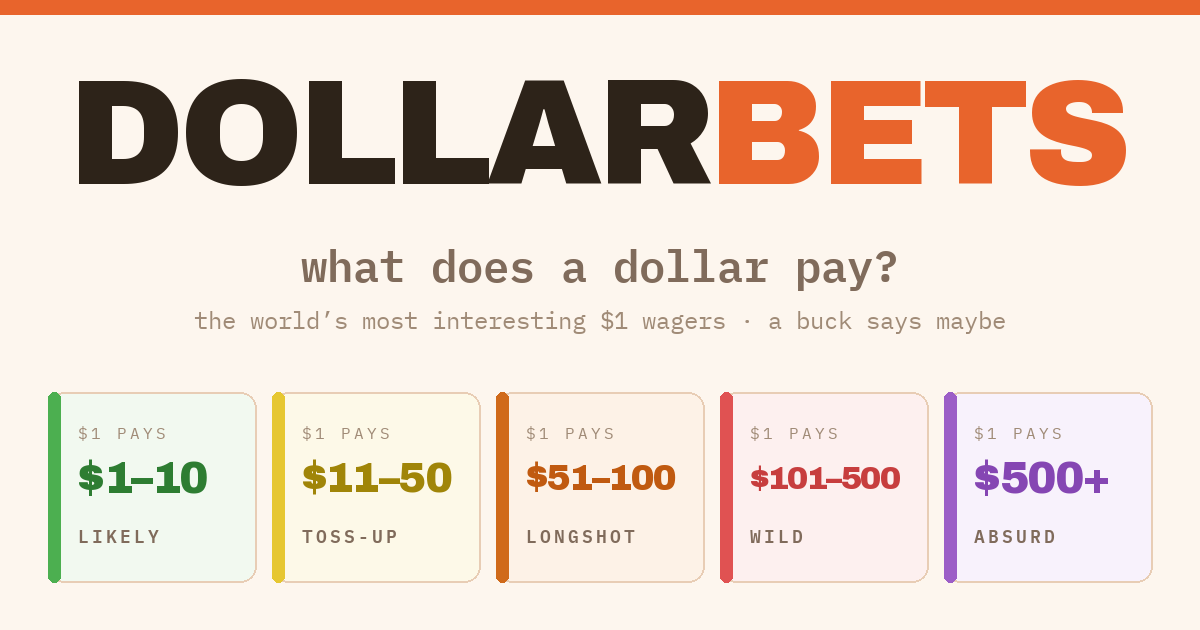
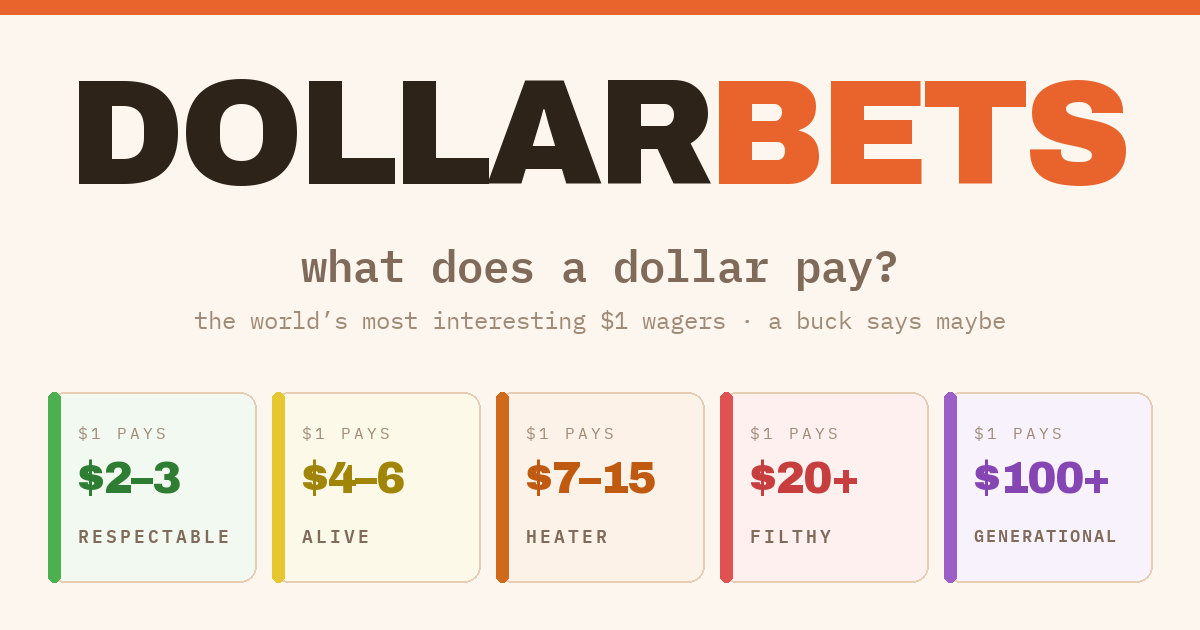
Brand card: the site's real tier names and ranges (#21)
respectable / alive / heater / filthy / generational with the $2–3 … $100+
ranges from the tier pages. The previous names came from a stale note in
CLAUDE.md, not the site.

diff --git a/share_card.py b/share_card.py
@@ -531,8 +531,9 @@ def render_og_brand(output_path, fonts_dir=None):
     fs = fonts.mono(24)
     draw.text(((OG_W - _text_w(draw, sub, fs)) // 2, 304), sub, font=fs, fill=INK_3)
 
-    chips = [("green", "$1–10", "likely"), ("yellow", "$11–50", "toss-up"), ("orange", "$51–100", "longshot"),
-             ("red", "$101–500", "wild"), ("purple", "$500+", "absurd")]
+    # The site's own tier names and ranges (generate.py tier pages) — not invented here.
+    chips = [("green", "$2–3", "respectable"), ("yellow", "$4–6", "alive"), ("orange", "$7–15", "heater"),
+             ("red", "$20+", "filthy"), ("purple", "$100+", "generational")]
     gap = 16
     cw = (OG_W - 2 * 48 - gap * 4) // 5
     ch = 190
@@ -550,7 +551,10 @@ def render_og_brand(output_path, fonts_dir=None):
             size -= 2                      # "$101–500" must stay inside its chip
         fa = fonts.display(size, 900)
         _draw_tracked(draw, (x + 30, y + 62 + (44 - size) // 2), amount, fa, ink_t, -1.5)
-        _draw_tracked(draw, (x + 30, y + 132), label.upper(), fl, INK_2, 3)
+        lsize, ltrack = 18, 3
+        while lsize > 13 and _tracked_w(draw, label.upper(), fonts.mono(lsize, semibold=True), ltrack) > cw - 30 - 22:
+            lsize -= 1; ltrack = 2
+        _draw_tracked(draw, (x + 30, y + 132), label.upper(), fonts.mono(lsize, semibold=True), INK_2, ltrack)
         x += cw + gap
 
     os.makedirs(os.path.dirname(output_path) or ".", exist_ok=True)
